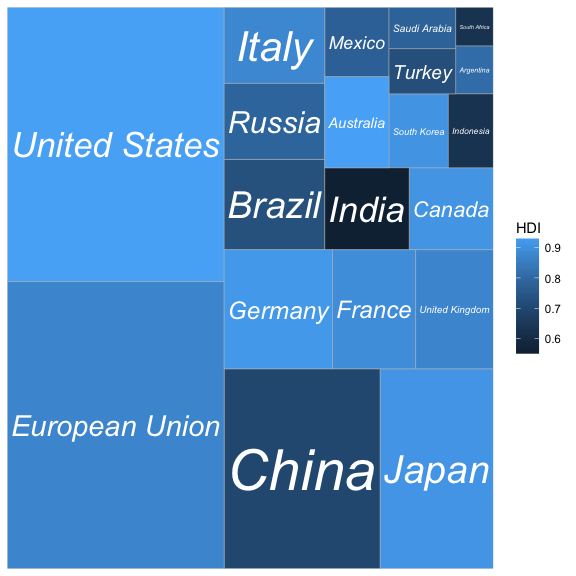
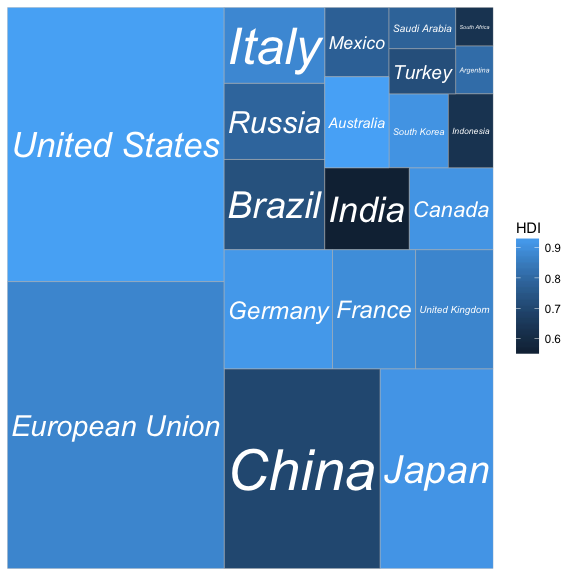
Add ‘reflow’ option

Changed region(s): [[0.375, 0.0312, 0.5625, 0.125]]

diff --git a/README.md b/README.md
@@ -83,7 +83,6 @@ ggplot(G20, aes(
   subgroup = Region,
   )) +
   geom_treemap() +
-  geom_treemap_text(colour = "white", place = "topleft") +
   geom_treemap_subgroup_border() +
   geom_treemap_subgroup_text(
     place = "centre",
@@ -92,23 +91,33 @@ ggplot(G20, aes(
     colour = "black",
     fontface = "italic",
     min.size = 0
+  ) +
+  geom_treemap_text(
+    colour = "white",
+    place = "topleft",
+    reflow = T
   )
 ```
 
 ![](README-subgrouped%20treemap-1.png)
 
-Note that the ‘Argentina’ has been hidden. `geom_treemap_text` will hide text labels that cannot fit a tile without being shrunk below a minimum size, by default 4 points. This can be adjusted with the ‘min.size’ option.
+Note that ‘Argentina’ has been hidden. `geom_treemap_text` will hide text labels that cannot fit a tile without being shrunk below a minimum size, by default 4 points. This can be adjusted with the ‘min.size’ option.
 
 Like any ggplot2 plot, treemapify plots can be faceted, scaled, themed, etc.
 
 ``` r
 ggplot(G20, aes(area = GDP.mil.USD, fill = Region, label = Country)) +
   geom_treemap() +
-  geom_treemap_text(grow = T, colour = "black") +
+  geom_treemap_text(grow = T, reflow = T, colour = "black") +
   facet_wrap( ~ Econ.classification) +
   scale_fill_brewer(palette = "Set1") +
-  theme(legend.position = "bottom", legend.title = element_blank()) +
-  ggtitle("The G-20 major economies")
+  theme(legend.position = "bottom") +
+  labs(
+    title = "The G-20 major economies",
+    caption = "The area of each country is proportional to its relative GDP
+               within the economic group (advanced or developing)",
+    fill = "Region"
+  )
 ```
 
 ![](README-complex%20treemap-1.png)
